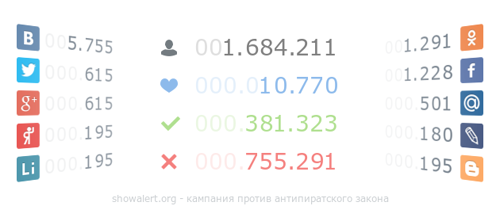
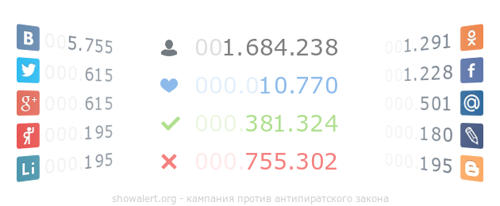
update statistics files for plugins

Changed region(s): [[0.6, 0.7282, 0.69, 0.8447], [0.63, 0.1748, 0.69, 0.2913], [0.63, 0.5534, 0.69, 0.6408]]

diff --git a/votes.js b/votes.js
@@ -1,1 +1,1 @@
-window.lk.votes(32976)
+window.lk.votes(32979)
